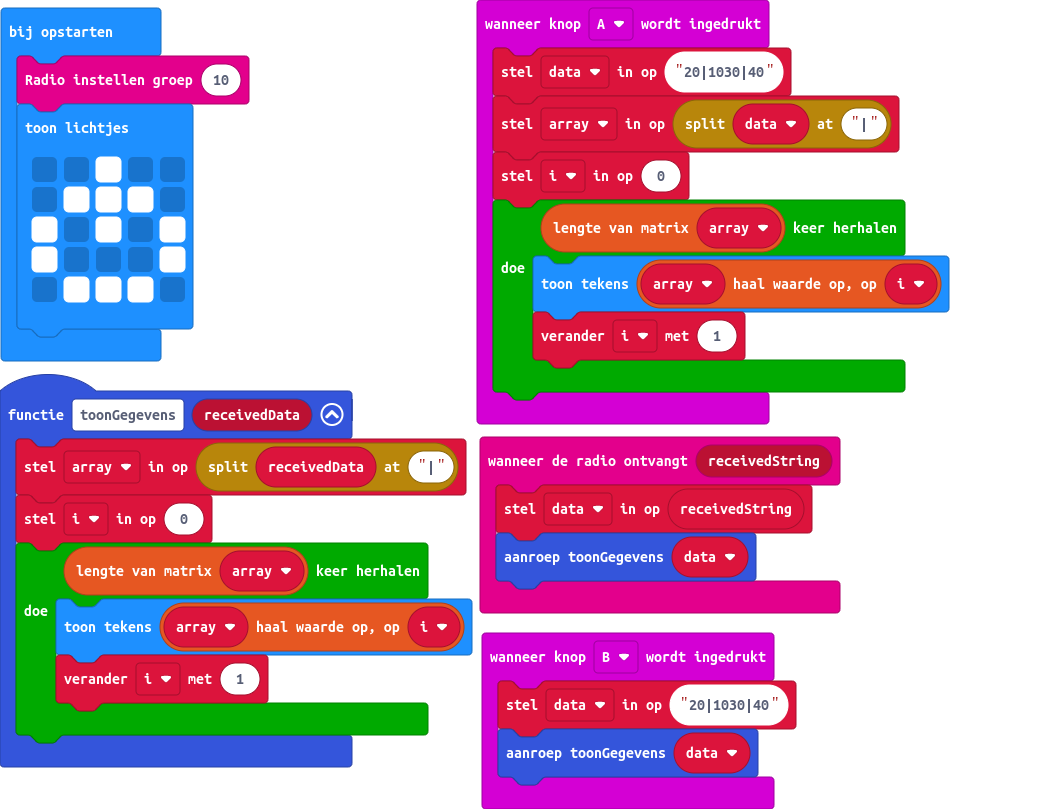
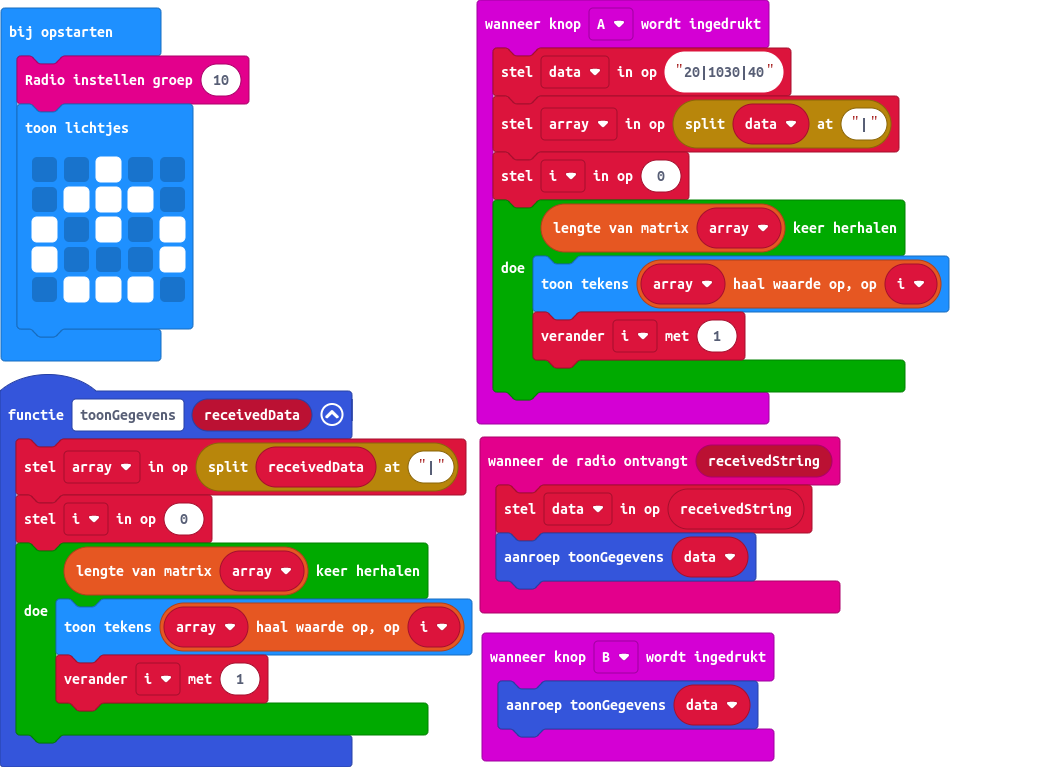
Updata code button B

diff --git a/main.ts b/main.ts
@@ -20,7 +20,6 @@ radio.onReceivedString(function (receivedString) {
     toonGegevens(data)
 })
 input.onButtonPressed(Button.B, function () {
-    data = "20|1030|40"
     toonGegevens(data)
 })
 let data = ""
